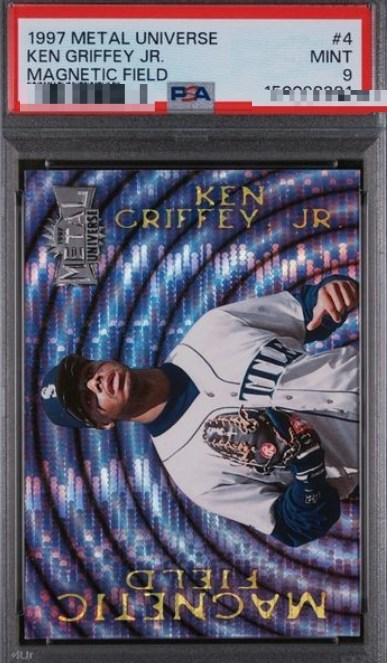
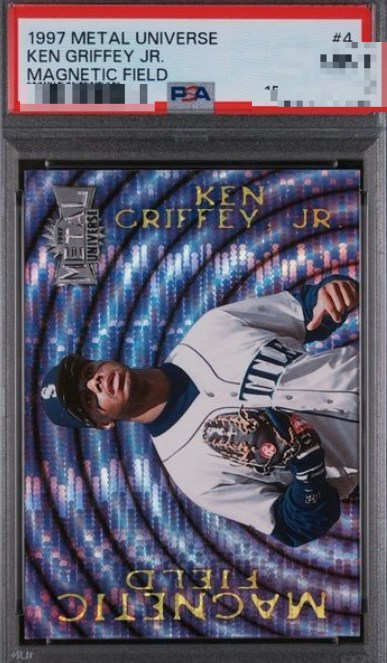
Blur grade on Magnetic Field #4 photo: shows PSA 9 but card's tracked highest price is PSA 10, avoid misrepresenting the sale

Changed region(s): [[0.7132, 0.0603, 1.0, 0.181]]

diff --git a/1997/metal-universe/index.html b/1997/metal-universe/index.html
@@ -103,7 +103,7 @@ ul.plain li{margin:0 0 7px}ul.plain a{color:var(--dim);text-decoration:none;font
 <body>
 <div class="wrap">
 <a class="home" href="/">◂ Griffey Card Prices — interactive guide</a>
-<h1>1997 Metal Universe Ken Griffey Jr. Card Values — What&rsquo;s It Worth?</h1><p class="sub">1997 Metal Universe Ken Griffey Jr. card prices from real eBay sold listings: 8 cards tracked, topping out at $3,875. Updated daily.</p><p class="answer">Among the eBay sales tracked here, the highest is the <b>Mother Lode</b> in PSA 9 at $3,875. A raw copy of that same card has sold for $2,250, depending on condition.</p><div class="tblwrap"><div class="theadwrap"><table class="ptable"><colgroup><col><col class="codds"><col class="cp"><col class="cp"><col class="cp"><col class="cp"><col class="ceb"></colgroup><thead><tr><th>Card</th><th>Odds</th><th>Raw</th><th>PSA 8</th><th>PSA 9</th><th>PSA 10</th><th class="theb">eBay</th></tr></thead></table></div><div class="scrollx"><table class="ptable"><colgroup><col><col class="codds"><col class="cp"><col class="cp"><col class="cp"><col class="cp"><col class="ceb"></colgroup><tbody><tr><td class="cname">Base #145</td><td class="odds"></td><td class="raw"><span class="tr up">▲</span>$65</td><td class="psa8">—</td><td class="psa9">—</td><td class="psa10">—</td><td class="eb"><a class="eb" href="https://www.ebay.com/sch/i.html?_nkw=1997%20Metal%20Universe%20Ken%20Griffey%20Jr%20%23145&_sacat=0" target="_blank" rel="sponsored noopener" title="See sold listings on eBay" aria-label="Search eBay sold listings for 1997 Metal Universe Ken Griffey Jr #145"><svg viewBox="0 0 24 24" width="15" height="15" aria-hidden="true" focusable="false"><circle cx="10.5" cy="10.5" r="6.5" fill="none" stroke="currentColor" stroke-width="2.2"/><line x1="15.4" y1="15.4" x2="21" y2="21" stroke="currentColor" stroke-width="2.4" stroke-linecap="round"/></svg></a></td></tr><tr><td class="cname">Mining for Gold</td><td class="odds">1:9</td><td class="raw">—</td><td class="psa8">—</td><td class="psa9">—</td><td class="psa10">—</td><td class="eb"><a class="eb" href="https://www.ebay.com/sch/i.html?_nkw=1997%20Metal%20Universe%20Ken%20Griffey%20Jr%20Mining%20for%20Gold&_sacat=0" target="_blank" rel="sponsored noopener" title="See sold listings on eBay" aria-label="Search eBay sold listings for 1997 Metal Universe Ken Griffey Jr Mining for Gold"><svg viewBox="0 0 24 24" width="15" height="15" aria-hidden="true" focusable="false"><circle cx="10.5" cy="10.5" r="6.5" fill="none" stroke="currentColor" stroke-width="2.2"/><line x1="15.4" y1="15.4" x2="21" y2="21" stroke="currentColor" stroke-width="2.4" stroke-linecap="round"/></svg></a></td></tr><tr><td class="cname">Magnetic Field #4</td><td class="odds">1:12</td><td class="raw"><span class="tr up">▲</span>$120</td><td class="psa8"><span class="tr up">▲</span>$238</td><td class="psa9">$400</td><td class="psa10">$515</td><td class="eb"><a class="eb" href="https://www.ebay.com/sch/i.html?_nkw=1997%20Metal%20Universe%20Ken%20Griffey%20Jr%20Magnetic%20Field%20%234&_sacat=0" target="_blank" rel="sponsored noopener" title="See sold listings on eBay" aria-label="Search eBay sold listings for 1997 Metal Universe Ken Griffey Jr Magnetic Field #4"><svg viewBox="0 0 24 24" width="15" height="15" aria-hidden="true" focusable="false"><circle cx="10.5" cy="10.5" r="6.5" fill="none" stroke="currentColor" stroke-width="2.2"/><line x1="15.4" y1="15.4" x2="21" y2="21" stroke="currentColor" stroke-width="2.4" stroke-linecap="round"/></svg></a></td></tr><tr><td class="cname">Titanium #3</td><td class="odds">1:24</td><td class="raw"><span class="tr up">▲</span>$115</td><td class="psa8">$88</td><td class="psa9">—</td><td class="psa10">—</td><td class="eb"><a class="eb" href="https://www.ebay.com/sch/i.html?_nkw=1997%20Metal%20Universe%20Ken%20Griffey%20Jr%20Titanium%20%233&_sacat=0" target="_blank" rel="sponsored noopener" title="See sold listings on eBay" aria-label="Search eBay sold listings for 1997 Metal Universe Ken Griffey Jr Titanium #3"><svg viewBox="0 0 24 24" width="15" height="15" aria-hidden="true" focusable="false"><circle cx="10.5" cy="10.5" r="6.5" fill="none" stroke="currentColor" stroke-width="2.2"/><line x1="15.4" y1="15.4" x2="21" y2="21" stroke="currentColor" stroke-width="2.4" stroke-linecap="round"/></svg></a></td></tr><tr><td class="cname">Platinum Portraits</td><td class="odds">1:36</td><td class="raw">$152</td><td class="psa8">—</td><td class="psa9">—</td><td class="psa10">—</td><td class="eb"><a class="eb" href="https://www.ebay.com/sch/i.html?_nkw=1997%20Metal%20Universe%20Ken%20Griffey%20Jr%20Platinum%20Portraits&_sacat=0" target="_blank" rel="sponsored noopener" title="See sold listings on eBay" aria-label="Search eBay sold listings for 1997 Metal Universe Ken Griffey Jr Platinum Portraits"><svg viewBox="0 0 24 24" width="15" height="15" aria-hidden="true" focusable="false"><circle cx="10.5" cy="10.5" r="6.5" fill="none" stroke="currentColor" stroke-width="2.2"/><line x1="15.4" y1="15.4" x2="21" y2="21" stroke="currentColor" stroke-width="2.4" stroke-linecap="round"/></svg></a></td></tr><tr><td class="cname">Blast Furnace #6</td><td class="odds">1:48</td><td class="raw"><span class="tr down">▼</span>$170</td><td class="psa8">—</td><td class="psa9"><span class="tr up">▲</span>$215</td><td class="psa10"><span class="tr down">▼</span>$749</td><td class="eb"><a class="eb" href="https://www.ebay.com/sch/i.html?_nkw=1997%20Metal%20Universe%20Ken%20Griffey%20Jr%20Blast%20Furnace%20%236&_sacat=0" target="_blank" rel="sponsored noopener" title="See sold listings on eBay" aria-label="Search eBay sold listings for 1997 Metal Universe Ken Griffey Jr Blast Furnace #6"><svg viewBox="0 0 24 24" width="15" height="15" aria-hidden="true" focusable="false"><circle cx="10.5" cy="10.5" r="6.5" fill="none" stroke="currentColor" stroke-width="2.2"/><line x1="15.4" y1="15.4" x2="21" y2="21" stroke="currentColor" stroke-width="2.4" stroke-linecap="round"/></svg></a></td></tr><tr><td class="cname">Mother Lode</td><td class="odds">1:288</td><td class="raw"><span class="tr down">▼</span>$2,250</td><td class="psa8"><span class="tr up">▲</span>$1,943</td><td class="psa9"><span class="tr up">▲</span>$3,875</td><td class="psa10">—</td><td class="eb"><a class="eb" href="https://www.ebay.com/sch/i.html?_nkw=1997%20Metal%20Universe%20Ken%20Griffey%20Jr%20Mother%20Lode&_sacat=0" target="_blank" rel="sponsored noopener" title="See sold listings on eBay" aria-label="Search eBay sold listings for 1997 Metal Universe Ken Griffey Jr Mother Lode"><svg viewBox="0 0 24 24" width="15" height="15" aria-hidden="true" focusable="false"><circle cx="10.5" cy="10.5" r="6.5" fill="none" stroke="currentColor" stroke-width="2.2"/><line x1="15.4" y1="15.4" x2="21" y2="21" stroke="currentColor" stroke-width="2.4" stroke-linecap="round"/></svg></a></td></tr><tr><td class="cname">Emerald Autographs <span class="tag">auto</span></td><td class="odds">1:480</td><td class="raw">—</td><td class="psa8">—</td><td class="psa9">—</td><td class="psa10">—</td><td class="eb"><a class="eb" href="https://www.ebay.com/sch/i.html?_nkw=1997%20Metal%20Universe%20Ken%20Griffey%20Jr%20Emerald%20Autographs&_sacat=0" target="_blank" rel="sponsored noopener" title="See sold listings on eBay" aria-label="Search eBay sold listings for 1997 Metal Universe Ken Griffey Jr Emerald Autographs"><svg viewBox="0 0 24 24" width="15" height="15" aria-hidden="true" focusable="false"><circle cx="10.5" cy="10.5" r="6.5" fill="none" stroke="currentColor" stroke-width="2.2"/><line x1="15.4" y1="15.4" x2="21" y2="21" stroke="currentColor" stroke-width="2.4" stroke-linecap="round"/></svg></a></td></tr></tbody></table></div></div><section class="photo-section"><h2 class="ps-h">The Cards</h2><p class="ps-sub">Real photos from the guide — tap any card to zoom in.</p><div class="cardfigs"><figure class="cardfig"><div class="cf-photo"><img src="/img/cards/1997-metal-universe-magnetic-field-griffey-psa9.jpg" alt="1997 Metal Universe Magnetic Field Ken Griffey Jr. card #4 in PSA 9 slab" width="387" height="663" loading="lazy"><span class="cf-badge">PSA 10 · $515</span></div><figcaption>Magnetic Field #4</figcaption></figure><figure class="cardfig"><div class="cf-photo"><img src="/img/cards/1997-metal-universe-blast-furnace-griffey-psa10.jpg" alt="1997 Metal Universe Blast Furnace Ken Griffey Jr. card #6 in PSA 10 slab" width="382" height="657" loading="lazy"><span class="cf-badge">PSA 10 · $749</span></div><figcaption>Blast Furnace #6</figcaption></figure><figure class="cardfig"><div class="cf-photo"><img src="/img/cards/1997-metal-universe-mother-lode-4-griffey-psa9.jpg" alt="1997 Metal Universe Mother Lode Ken Griffey Jr. card #4 in PSA 9 slab" width="366" height="681" loading="lazy"><span class="cf-badge">PSA 9 · $3,875</span></div><figcaption>Mother Lode</figcaption></figure></div></section><h2>1997 Metal Universe Value FAQ</h2><div class="faq"><div class="faq-item"><p class="faq-q">How much is a 1997 Metal Universe Ken Griffey Jr. card worth?</p><p class="faq-a">Based on eBay sales tracked here, 1997 Metal Universe Ken Griffey Jr. cards range up to $3,875 for the Mother Lode in PSA 9. Exact value depends on the specific card and grade.</p></div><div class="faq-item"><p class="faq-q">What is the most valuable 1997 Metal Universe Ken Griffey Jr. card?</p><p class="faq-a">Among tracked sales, the highest price for a 1997 Metal Universe Griffey card is the Mother Lode in PSA 9 at $3,875.</p></div><div class="faq-item"><p class="faq-q">What is a raw (ungraded) 1997 Metal Universe Ken Griffey Jr. card worth?</p><p class="faq-a">A raw copy of the Mother Lode, the set's top card, has sold for $2,250 — raw prices vary by card and condition.</p></div></div><h2>More 1997 Griffey Sets</h2><ul class="plain"><li><a href="/1997/bowman/">1997 Bowman</a></li><li><a href="/1997/bowman-chrome/">1997 Bowman Chrome</a></li><li><a href="/1997/bowmans-best/">1997 Bowman's Best</a></li><li><a href="/1997/circa/">1997 Circa</a></li><li><a href="/1997/collectors-choice/">1997 Collector's Choice</a></li><li><a href="/1997/donruss/">1997 Donruss</a></li><li><a href="/1997/donruss-limited/">1997 Donruss Limited</a></li><li><a href="/1997/donruss-elite/">1997 Donruss Elite</a></li><li><a href="/1997/donruss-update/">1997 Donruss Update</a></li><li><a href="/1997/e-x-2000/">1997 E-X 2000</a></li><li><a href="/1997/finest/">1997 Finest</a></li><li><a href="/1997/flair-showcase/">1997 Flair Showcase</a></li><li><a href="/1997/fleer/">1997 Fleer</a></li><li><a href="/1997/leaf/">1997 Leaf</a></li><li><a href="/1997/pinnacle/">1997 Pinnacle</a></li><li><a href="/1997/pinnacle-certified/">1997 Pinnacle Certified</a></li><li><a href="/1997/score/">1997 Score</a></li><li><a href="/1997/sp/">1997 SP</a></li><li><a href="/1997/spx/">1997 SPx</a></li><li><a href="/1997/stadium-club/">1997 Stadium Club</a></li><li><a href="/1997/studio/">1997 Studio</a></li><li><a href="/1997/topps/">1997 Topps</a></li><li><a href="/1997/topps-chrome/">1997 Topps Chrome</a></li><li><a href="/1997/ud3/">1997 UD3</a></li><li><a href="/1997/ultra/">1997 Ultra</a></li><li><a href="/1997/upper-deck/">1997 Upper Deck</a></li></ul>
+<h1>1997 Metal Universe Ken Griffey Jr. Card Values — What&rsquo;s It Worth?</h1><p class="sub">1997 Metal Universe Ken Griffey Jr. card prices from real eBay sold listings: 8 cards tracked, topping out at $3,875. Updated daily.</p><p class="answer">Among the eBay sales tracked here, the highest is the <b>Mother Lode</b> in PSA 9 at $3,875. A raw copy of that same card has sold for $2,250, depending on condition.</p><div class="tblwrap"><div class="theadwrap"><table class="ptable"><colgroup><col><col class="codds"><col class="cp"><col class="cp"><col class="cp"><col class="cp"><col class="ceb"></colgroup><thead><tr><th>Card</th><th>Odds</th><th>Raw</th><th>PSA 8</th><th>PSA 9</th><th>PSA 10</th><th class="theb">eBay</th></tr></thead></table></div><div class="scrollx"><table class="ptable"><colgroup><col><col class="codds"><col class="cp"><col class="cp"><col class="cp"><col class="cp"><col class="ceb"></colgroup><tbody><tr><td class="cname">Base #145</td><td class="odds"></td><td class="raw"><span class="tr up">▲</span>$65</td><td class="psa8">—</td><td class="psa9">—</td><td class="psa10">—</td><td class="eb"><a class="eb" href="https://www.ebay.com/sch/i.html?_nkw=1997%20Metal%20Universe%20Ken%20Griffey%20Jr%20%23145&_sacat=0" target="_blank" rel="sponsored noopener" title="See sold listings on eBay" aria-label="Search eBay sold listings for 1997 Metal Universe Ken Griffey Jr #145"><svg viewBox="0 0 24 24" width="15" height="15" aria-hidden="true" focusable="false"><circle cx="10.5" cy="10.5" r="6.5" fill="none" stroke="currentColor" stroke-width="2.2"/><line x1="15.4" y1="15.4" x2="21" y2="21" stroke="currentColor" stroke-width="2.4" stroke-linecap="round"/></svg></a></td></tr><tr><td class="cname">Mining for Gold</td><td class="odds">1:9</td><td class="raw">—</td><td class="psa8">—</td><td class="psa9">—</td><td class="psa10">—</td><td class="eb"><a class="eb" href="https://www.ebay.com/sch/i.html?_nkw=1997%20Metal%20Universe%20Ken%20Griffey%20Jr%20Mining%20for%20Gold&_sacat=0" target="_blank" rel="sponsored noopener" title="See sold listings on eBay" aria-label="Search eBay sold listings for 1997 Metal Universe Ken Griffey Jr Mining for Gold"><svg viewBox="0 0 24 24" width="15" height="15" aria-hidden="true" focusable="false"><circle cx="10.5" cy="10.5" r="6.5" fill="none" stroke="currentColor" stroke-width="2.2"/><line x1="15.4" y1="15.4" x2="21" y2="21" stroke="currentColor" stroke-width="2.4" stroke-linecap="round"/></svg></a></td></tr><tr><td class="cname">Magnetic Field #4</td><td class="odds">1:12</td><td class="raw"><span class="tr up">▲</span>$120</td><td class="psa8"><span class="tr up">▲</span>$238</td><td class="psa9">$400</td><td class="psa10">$515</td><td class="eb"><a class="eb" href="https://www.ebay.com/sch/i.html?_nkw=1997%20Metal%20Universe%20Ken%20Griffey%20Jr%20Magnetic%20Field%20%234&_sacat=0" target="_blank" rel="sponsored noopener" title="See sold listings on eBay" aria-label="Search eBay sold listings for 1997 Metal Universe Ken Griffey Jr Magnetic Field #4"><svg viewBox="0 0 24 24" width="15" height="15" aria-hidden="true" focusable="false"><circle cx="10.5" cy="10.5" r="6.5" fill="none" stroke="currentColor" stroke-width="2.2"/><line x1="15.4" y1="15.4" x2="21" y2="21" stroke="currentColor" stroke-width="2.4" stroke-linecap="round"/></svg></a></td></tr><tr><td class="cname">Titanium #3</td><td class="odds">1:24</td><td class="raw"><span class="tr up">▲</span>$115</td><td class="psa8">$88</td><td class="psa9">—</td><td class="psa10">—</td><td class="eb"><a class="eb" href="https://www.ebay.com/sch/i.html?_nkw=1997%20Metal%20Universe%20Ken%20Griffey%20Jr%20Titanium%20%233&_sacat=0" target="_blank" rel="sponsored noopener" title="See sold listings on eBay" aria-label="Search eBay sold listings for 1997 Metal Universe Ken Griffey Jr Titanium #3"><svg viewBox="0 0 24 24" width="15" height="15" aria-hidden="true" focusable="false"><circle cx="10.5" cy="10.5" r="6.5" fill="none" stroke="currentColor" stroke-width="2.2"/><line x1="15.4" y1="15.4" x2="21" y2="21" stroke="currentColor" stroke-width="2.4" stroke-linecap="round"/></svg></a></td></tr><tr><td class="cname">Platinum Portraits</td><td class="odds">1:36</td><td class="raw">$152</td><td class="psa8">—</td><td class="psa9">—</td><td class="psa10">—</td><td class="eb"><a class="eb" href="https://www.ebay.com/sch/i.html?_nkw=1997%20Metal%20Universe%20Ken%20Griffey%20Jr%20Platinum%20Portraits&_sacat=0" target="_blank" rel="sponsored noopener" title="See sold listings on eBay" aria-label="Search eBay sold listings for 1997 Metal Universe Ken Griffey Jr Platinum Portraits"><svg viewBox="0 0 24 24" width="15" height="15" aria-hidden="true" focusable="false"><circle cx="10.5" cy="10.5" r="6.5" fill="none" stroke="currentColor" stroke-width="2.2"/><line x1="15.4" y1="15.4" x2="21" y2="21" stroke="currentColor" stroke-width="2.4" stroke-linecap="round"/></svg></a></td></tr><tr><td class="cname">Blast Furnace #6</td><td class="odds">1:48</td><td class="raw"><span class="tr down">▼</span>$170</td><td class="psa8">—</td><td class="psa9"><span class="tr up">▲</span>$215</td><td class="psa10"><span class="tr down">▼</span>$749</td><td class="eb"><a class="eb" href="https://www.ebay.com/sch/i.html?_nkw=1997%20Metal%20Universe%20Ken%20Griffey%20Jr%20Blast%20Furnace%20%236&_sacat=0" target="_blank" rel="sponsored noopener" title="See sold listings on eBay" aria-label="Search eBay sold listings for 1997 Metal Universe Ken Griffey Jr Blast Furnace #6"><svg viewBox="0 0 24 24" width="15" height="15" aria-hidden="true" focusable="false"><circle cx="10.5" cy="10.5" r="6.5" fill="none" stroke="currentColor" stroke-width="2.2"/><line x1="15.4" y1="15.4" x2="21" y2="21" stroke="currentColor" stroke-width="2.4" stroke-linecap="round"/></svg></a></td></tr><tr><td class="cname">Mother Lode</td><td class="odds">1:288</td><td class="raw"><span class="tr down">▼</span>$2,250</td><td class="psa8"><span class="tr up">▲</span>$1,943</td><td class="psa9"><span class="tr up">▲</span>$3,875</td><td class="psa10">—</td><td class="eb"><a class="eb" href="https://www.ebay.com/sch/i.html?_nkw=1997%20Metal%20Universe%20Ken%20Griffey%20Jr%20Mother%20Lode&_sacat=0" target="_blank" rel="sponsored noopener" title="See sold listings on eBay" aria-label="Search eBay sold listings for 1997 Metal Universe Ken Griffey Jr Mother Lode"><svg viewBox="0 0 24 24" width="15" height="15" aria-hidden="true" focusable="false"><circle cx="10.5" cy="10.5" r="6.5" fill="none" stroke="currentColor" stroke-width="2.2"/><line x1="15.4" y1="15.4" x2="21" y2="21" stroke="currentColor" stroke-width="2.4" stroke-linecap="round"/></svg></a></td></tr><tr><td class="cname">Emerald Autographs <span class="tag">auto</span></td><td class="odds">1:480</td><td class="raw">—</td><td class="psa8">—</td><td class="psa9">—</td><td class="psa10">—</td><td class="eb"><a class="eb" href="https://www.ebay.com/sch/i.html?_nkw=1997%20Metal%20Universe%20Ken%20Griffey%20Jr%20Emerald%20Autographs&_sacat=0" target="_blank" rel="sponsored noopener" title="See sold listings on eBay" aria-label="Search eBay sold listings for 1997 Metal Universe Ken Griffey Jr Emerald Autographs"><svg viewBox="0 0 24 24" width="15" height="15" aria-hidden="true" focusable="false"><circle cx="10.5" cy="10.5" r="6.5" fill="none" stroke="currentColor" stroke-width="2.2"/><line x1="15.4" y1="15.4" x2="21" y2="21" stroke="currentColor" stroke-width="2.4" stroke-linecap="round"/></svg></a></td></tr></tbody></table></div></div><section class="photo-section"><h2 class="ps-h">The Cards</h2><p class="ps-sub">Real photos from the guide — tap any card to zoom in.</p><div class="cardfigs"><figure class="cardfig"><div class="cf-photo"><img src="/img/cards/1997-metal-universe-magnetic-field-griffey-psa9.jpg" alt="1997 Metal Universe Magnetic Field Ken Griffey Jr. card #4 in a PSA graded slab" width="387" height="663" loading="lazy"><span class="cf-badge">PSA 10 · $515</span></div><figcaption>Magnetic Field #4</figcaption></figure><figure class="cardfig"><div class="cf-photo"><img src="/img/cards/1997-metal-universe-blast-furnace-griffey-psa10.jpg" alt="1997 Metal Universe Blast Furnace Ken Griffey Jr. card #6 in PSA 10 slab" width="382" height="657" loading="lazy"><span class="cf-badge">PSA 10 · $749</span></div><figcaption>Blast Furnace #6</figcaption></figure><figure class="cardfig"><div class="cf-photo"><img src="/img/cards/1997-metal-universe-mother-lode-4-griffey-psa9.jpg" alt="1997 Metal Universe Mother Lode Ken Griffey Jr. card #4 in PSA 9 slab" width="366" height="681" loading="lazy"><span class="cf-badge">PSA 9 · $3,875</span></div><figcaption>Mother Lode</figcaption></figure></div></section><h2>1997 Metal Universe Value FAQ</h2><div class="faq"><div class="faq-item"><p class="faq-q">How much is a 1997 Metal Universe Ken Griffey Jr. card worth?</p><p class="faq-a">Based on eBay sales tracked here, 1997 Metal Universe Ken Griffey Jr. cards range up to $3,875 for the Mother Lode in PSA 9. Exact value depends on the specific card and grade.</p></div><div class="faq-item"><p class="faq-q">What is the most valuable 1997 Metal Universe Ken Griffey Jr. card?</p><p class="faq-a">Among tracked sales, the highest price for a 1997 Metal Universe Griffey card is the Mother Lode in PSA 9 at $3,875.</p></div><div class="faq-item"><p class="faq-q">What is a raw (ungraded) 1997 Metal Universe Ken Griffey Jr. card worth?</p><p class="faq-a">A raw copy of the Mother Lode, the set's top card, has sold for $2,250 — raw prices vary by card and condition.</p></div></div><h2>More 1997 Griffey Sets</h2><ul class="plain"><li><a href="/1997/bowman/">1997 Bowman</a></li><li><a href="/1997/bowman-chrome/">1997 Bowman Chrome</a></li><li><a href="/1997/bowmans-best/">1997 Bowman's Best</a></li><li><a href="/1997/circa/">1997 Circa</a></li><li><a href="/1997/collectors-choice/">1997 Collector's Choice</a></li><li><a href="/1997/donruss/">1997 Donruss</a></li><li><a href="/1997/donruss-limited/">1997 Donruss Limited</a></li><li><a href="/1997/donruss-elite/">1997 Donruss Elite</a></li><li><a href="/1997/donruss-update/">1997 Donruss Update</a></li><li><a href="/1997/e-x-2000/">1997 E-X 2000</a></li><li><a href="/1997/finest/">1997 Finest</a></li><li><a href="/1997/flair-showcase/">1997 Flair Showcase</a></li><li><a href="/1997/fleer/">1997 Fleer</a></li><li><a href="/1997/leaf/">1997 Leaf</a></li><li><a href="/1997/pinnacle/">1997 Pinnacle</a></li><li><a href="/1997/pinnacle-certified/">1997 Pinnacle Certified</a></li><li><a href="/1997/score/">1997 Score</a></li><li><a href="/1997/sp/">1997 SP</a></li><li><a href="/1997/spx/">1997 SPx</a></li><li><a href="/1997/stadium-club/">1997 Stadium Club</a></li><li><a href="/1997/studio/">1997 Studio</a></li><li><a href="/1997/topps/">1997 Topps</a></li><li><a href="/1997/topps-chrome/">1997 Topps Chrome</a></li><li><a href="/1997/ud3/">1997 UD3</a></li><li><a href="/1997/ultra/">1997 Ultra</a></li><li><a href="/1997/upper-deck/">1997 Upper Deck</a></li></ul>
 <div class="bottomnav"><div class="bn-label">Browse the guide</div><nav class="yearnav"><a href="/1990/">1990</a><a href="/1991/">1991</a><a href="/1992/">1992</a><a href="/1993/">1993</a><a href="/1994/">1994</a><a href="/1995/">1995</a><a href="/1996/">1996</a><span class="on">1997</span><a href="/1998/">1998</a><a href="/1999/">1999</a><a href="/most-valuable/">Top 25 Sales</a><a href="/biggest-movers/">Biggest Movers</a><a href="/how-much-are-griffey-cards-worth/">Card Values</a><a href="/blog/">Market Reports</a></nav></div>
 <div class="foot">Prices updated August 17, 2026 from real eBay sold listings · Not affiliated with PSA, eBay, or Topps · Built for collectors, by a collector<br><a href="/">griffeycardprices.com</a> · <a href="/site-map/">Site Map</a> · <a href="mailto:shareyoursportscards@gmail.com">shareyoursportscards@gmail.com</a></div>
 </div>
